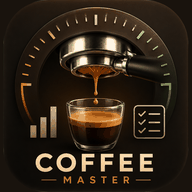
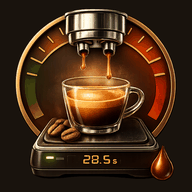
design: אייקון חדש — מדליון הפורטפילטר והמשקל
נאור סיפק מקור חדש (icon-source2.png). מחליף את "Coffee Master" הקודם.

## מה היה שונה במקור הזה

700x700 RGBA עם **שקיפות אמיתית** — 36% משטחו שקוף, והקומפוזיציה עגולה
ולא ריבוע מעוגל. iOS משטח אלפא על שחור, ולכן המדליון מורכב על ריבוע
אטום #19130d: אותו צבע כמו האייקון הקודם, קרוב ל---bg של האפליקציה.

התוכן חורג מהעיגול — הטיפה מימין ובסיס המשקל למטה — וה-bbox של האלפא
(603x673) נוגע בקצה בדיוק. לכן הריבוע מוגדל ב-6% סביבו, אחרת התוכן היה
נצמד למסגרת ומסכת ה-squircle של iOS הייתה נוגסת בו.

הצינור עצמו פשוט יותר מהקודם: אין פינות מעוגלות לחתוך ואין צל להסיר,
כי האלפא של המקור הוא כבר המסכה המדויקת.

  apple-touch-icon.png    180x180  RGB   41.0 KB
  icon-192.png            192x192  P     18.2 KB
  icon-512.png            512x512  P     96.3 KB
  icon-maskable-512.png   512x512  P     66.1 KB

apple-touch-icon נשאר RGB מלא; השאר מקוונטזים ל-256 צבעים. סך האייקונים
285KB -> 224KB. index.html ו-vite.config לא נגעו — שמות הקבצים זהים.

## design-assets

icon-master2.png (המקור) ו-icon-master2-square.png (תוצר הביניים, המדליון
על הריבוע האטום לפני ההקטנה — לגזירת גדלים נוספים בלי להריץ שוב).
המקור הקודם נשמר להיסטוריה; החלופות שלו בלי הטקסט הוסרו.

diff --git a/design-assets/README.md b/design-assets/README.md
@@ -1,16 +1,27 @@
 # נכסי האייקון
 
-`icon-master.png` — המקור (1254×1254, RGB). כל האייקונים ב-`public/` נגזרים ממנו.
+`icon-master2.png` — המקור הפעיל (700×700, **RGBA עם שקיפות**). כל
+האייקונים ב-`public/` נגזרים ממנו.
+`icon-master2-square.png` — תוצר הביניים: המדליון על ריבוע כהה אטום, לפני
+ההקטנה. שימושי כשרוצים לגזור גודל נוסף בלי להריץ את הצינור מחדש.
+`icon-master.png` — המקור הקודם (Coffee Master, ריבוע מעוגל עם טקסט).
+נשמר להיסטוריה, אינו בשימוש.
 
-הצורה הכהה בתוך המקור יושבת ב-`(80, 48)` בגודל `1093×1135`, עם רדיוס פינה
-של ~256px. סביבה יש לבן וצל רך — **שניהם חייבים להיחתך**: iOS מוסיף מסכת
-squircle משלו, ופינות שכבר עוגלו בקובץ נחתכות פעמיים ומשאירות תפר בהיר.
+## מה חייב לקרות לכל מקור לפני שהוא הופך לאייקון iOS
 
-## הפקה מחדש
+- **אין שקיפות.** iOS משטח אלפא על שחור. המקור הנוכחי שקוף ב-36% משטחו,
+  ולכן הוא מורכב על רקע אטום `#19130d` — אותו צבע כמו האייקון הקודם,
+  קרוב ל-`--bg` של האפליקציה (`#190e06`).
+- **אין פינות מעוגלות בקובץ.** iOS מוסיף מסכת squircle משלו; פינות שכבר
+  עוגלו נחתכות פעמיים ומשאירות תפר בהיר. הריבוע נשאר מלא מקצה לקצה.
+- **התוכן לא נוגע בקצה.** ה-bbox של האלפא הוא 603×673 — התוכן מגיע עד
+  הקצה בדיוק (הטיפה מימין, בסיס המשקל למטה), ולכן הריבוע מוגדל ב-6%
+  סביבו.
 
-הצינור: חיתוך לצורה → מסכת ריבוע-מעוגל ברדיוס גדול ב-6px מהמקור (כדי
-שטבעת ה-anti-alias הלבנה לא תדלוף) → מירכוז על ריבוע מלא בצבע `#19130d`
-→ הקטנה ב-LANCZOS.
+## הצינור
+
+`bbox` של ערוץ האלפא → הדבקה ממורכזת על ריבוע אטום בגודל
+`max(w,h) × 1.06`, כשהאלפא של המקור הוא המסכה → הקטנה ב-LANCZOS.
 
 | קובץ | גודל | הערה |
 |---|---|---|
@@ -23,7 +34,9 @@ squircle משלו, ופינות שכבר עוגלו בקובץ נחתכות פע
 אייקון). ה-512 מוחרגים מהמטמון המקדים ב-`vite.config.ts` — הם נקראים רק
 ברגע ההתקנה, מהרשת.
 
-## גרסה חלופית
+## החלפת האייקון במכשיר
 
-`apple-touch-icon-notext.png` / `icon-512-notext.png` — אותו איור בלי פס
-"COFFEE MASTER". להחלפה: להעתיק על הקובץ המקביל ב-`public/` ולבנות מחדש.
+iOS מקבע את האייקון ברגע ההוספה למסך הבית ולא מרענן אותו. כדי לראות
+אייקון חדש צריך להסיר את הקיצור ולהוסיף מחדש — **ולגבות חיצונית קודם**,
+כי מחיקת אפליקציית מסך-בית מוחקת גם את ה-IndexedDB שלה, ואיתו את תמונות
+המצב האוטומטיות.
